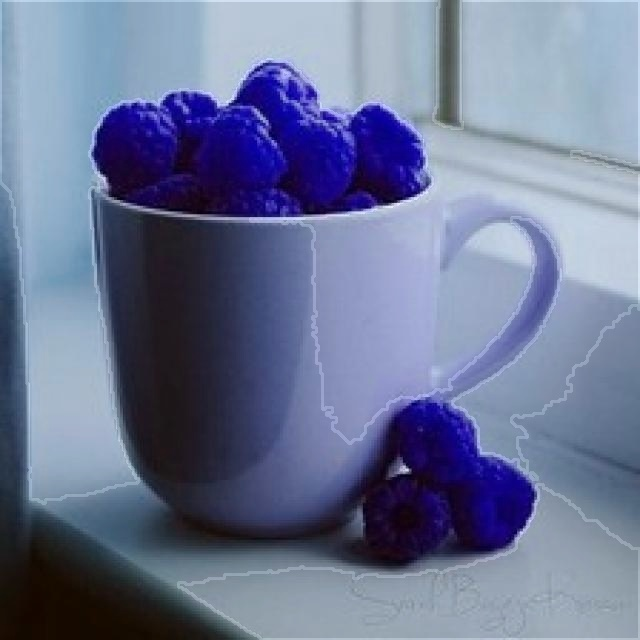
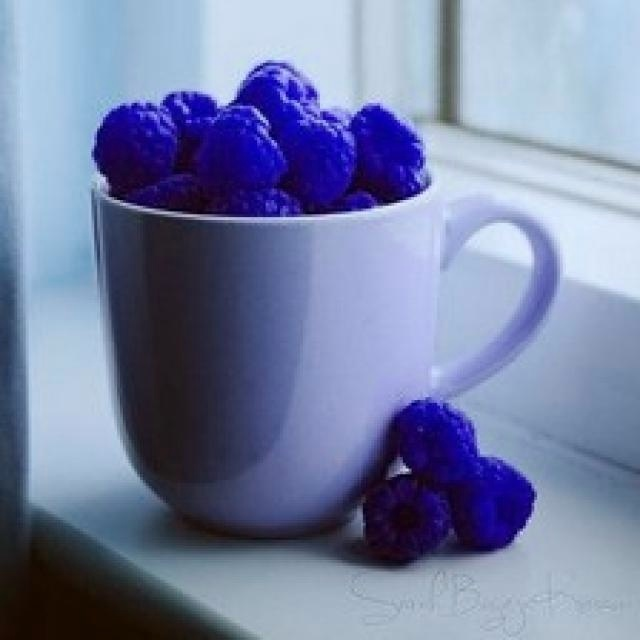
ohhhhh sam+dino works

diff --git a/Personalize-SAM-main/persam_f.py b/Personalize-SAM-main/persam_f.py
@@ -1,3 +1,5 @@
+from transformers import AutoImageProcessor, AutoModel
+from PIL import Image
 import numpy as np
 import torch
 import torch.nn as nn
@@ -16,6 +18,51 @@ from per_segment_anything import sam_model_registry, SamPredictor
 
 device = "cuda" if torch.cuda.is_available() else \
          "mps" if torch.backends.mps.is_available() else "cpu"
+
+print("Loading DINOv2...")
+dino_processor = AutoImageProcessor.from_pretrained("facebook/dinov2-large")
+dino_model = AutoModel.from_pretrained("facebook/dinov2-large").to(device)
+dino_model.eval()
+
+@torch.no_grad()
+def extract_dino_features(img_np):
+    """
+    img_np: RGB uint8 numpy array [H, W, 3]
+    returns:
+        feat_hwD: [H_feat, W_feat, D]
+        feat_flat: [HW_feat, D]
+        (H_feat, W_feat)
+    """
+
+    img_pil = Image.fromarray(img_np)
+    inputs = dino_processor(images=img_pil, return_tensors="pt").to(device)
+
+    out = dino_model(**inputs)
+    # remove CLS token: out.last_hidden_state: [1, 1+HW, D]
+    feat_flat = out.last_hidden_state[:, 1:, :]        # [1, HW, D]
+    feat_flat = F.normalize(feat_flat, dim=-1)         # cosine norm
+    feat_flat = feat_flat.squeeze(0)                   # [HW, D]
+
+    N, D = feat_flat.shape
+    H_feat = W_feat = int(N**0.5)
+
+    feat_hwD = feat_flat.reshape(H_feat, W_feat, D)
+
+    return feat_hwD, feat_flat, (H_feat, W_feat)
+
+# Save original interpolate
+_original_interpolate = F.interpolate
+
+def safe_interpolate(input, size=None, scale_factor=None, mode='bicubic', align_corners=False):
+    # If MPS: convert unsupported bicubic → bilinear
+    if mode == 'bicubic':
+        mode = 'bilinear'
+    # Call PyTorch's real interpolate, not the monkey-patched one
+    return _original_interpolate(input, size=size, scale_factor=scale_factor,
+                                 mode=mode, align_corners=align_corners)
+
+# Monkey patch
+F.interpolate = safe_interpolate
 
 
 def get_arguments():
@@ -123,7 +170,25 @@ def persam_f(args, obj_name, images_path, masks_path, referenceImageName, output
         print("======> Obtain Self Location Prior" )
         edge = get_color_outline(ref_image_rot)
         img_for_similarity = combine_edges_with_image(ref_image_rot, edge)
-        # Image features encoding
+        # DINO
+        feat_hwD, feat_flat, (H_feat, W_feat) = extract_dino_features(img_for_similarity)
+        # ref_mask = binary mask [H, W]
+
+        # Resize mask to match DINO feature resolution
+        ref_mask_gray = ref_mask_rot[:, :, 0] > 0   # shape [H, W]
+        ref_mask_small = cv2.resize(ref_mask_gray.astype(np.uint8),
+                                    (W_feat, H_feat),
+                                    interpolation=cv2.INTER_NEAREST)
+        ref_mask_small = torch.tensor(ref_mask_small, device=device)
+        # Convert to torch on same device as DINO feat
+        ref_mask_small = torch.tensor(ref_mask_small, device=device, dtype=torch.bool)
+
+        # Extract prototype handle feature
+        proto_dino = feat_hwD[ref_mask_small > 0].mean(0)    # [D]
+        proto_dino = F.normalize(proto_dino, dim=0)
+
+
+        # SAM Image features encoding
         # side effect: computes and stores the model’s image features (embedding) in predictor.features.
         # return a mask that you can later use to compute target features.
         ref_mask = predictor.set_image(img_for_similarity, ref_mask_rot)
@@ -262,7 +327,15 @@ def persam_f(args, obj_name, images_path, masks_path, referenceImageName, output
 
             edge = get_color_outline(test_image)
             img_for_similarity = combine_edges_with_image(test_image, edge)
-            # Image feature encoding
+            # DINO
+            test_dino_hwD, _, (hD, wD) = extract_dino_features(img_for_similarity)
+            sim_dino = torch.einsum("c,hwc->hw", proto_dino, test_dino_hwD)
+            sim_dino_up = F.interpolate(sim_dino.unsqueeze(0).unsqueeze(0),
+                            size=predictor.original_size,
+                            mode="bilinear")[0,0]
+
+
+            # SAM Image feature encoding
             predictor.set_image(img_for_similarity)
             test_feat = predictor.features.squeeze()
 
@@ -284,16 +357,21 @@ def persam_f(args, obj_name, images_path, masks_path, referenceImageName, output
                             original_size=predictor.original_size).squeeze()
             sim = rotate_sim_back(sim, ang)
             test_sims.append(sim)
-        sim = (sum(test_sims)) / len(angles)
+        sim_sam = (sum(test_sims)) / len(angles)
+
+        sim_dino_norm = (sim_dino_up - sim_dino_up.min()) / (sim_dino_up.max() - sim_dino_up.min() + 1e-8)
+        sim_sam_norm  = (sim_sam      - sim_sam.min())      / (sim_sam.max()      - sim_sam.min() + 1e-8)
+
+        fused_sim = torch.sqrt(sim_dino_norm * sim_sam_norm)
 
         # Positive location prior
         # gives the prompt for SAM on the test image
-        topk_xy, topk_label = point_selection(sim, topk=1)
+        topk_xy, topk_label = point_selection(fused_sim, topk=1)
         # print("topyk_xy before neg:", topk_xy)
         # print("topyk_label before neg:", topk_label)
 
         # add negative points
-        neg_xy, neg_label = negative_point_selection(topk_xy, sim, threshold=0.7, step=10000, window=100)
+        neg_xy, neg_label = negative_point_selection(topk_xy, fused_sim, threshold=0.7, step=10000, window=100)
         # print("neg_xy:", neg_xy)
         # print("neg_label:", neg_label)
 
@@ -490,7 +568,7 @@ def get_color_outline(img, k=3, morph=3):
     return outline_rgb
 
 
-def combine_edges_with_image(img, edge_img, alpha=0.1):
+def combine_edges_with_image(img, edge_img, alpha=0):
     """
     Blend edges with original RGB image.
     Both must be uint8 and same size.
